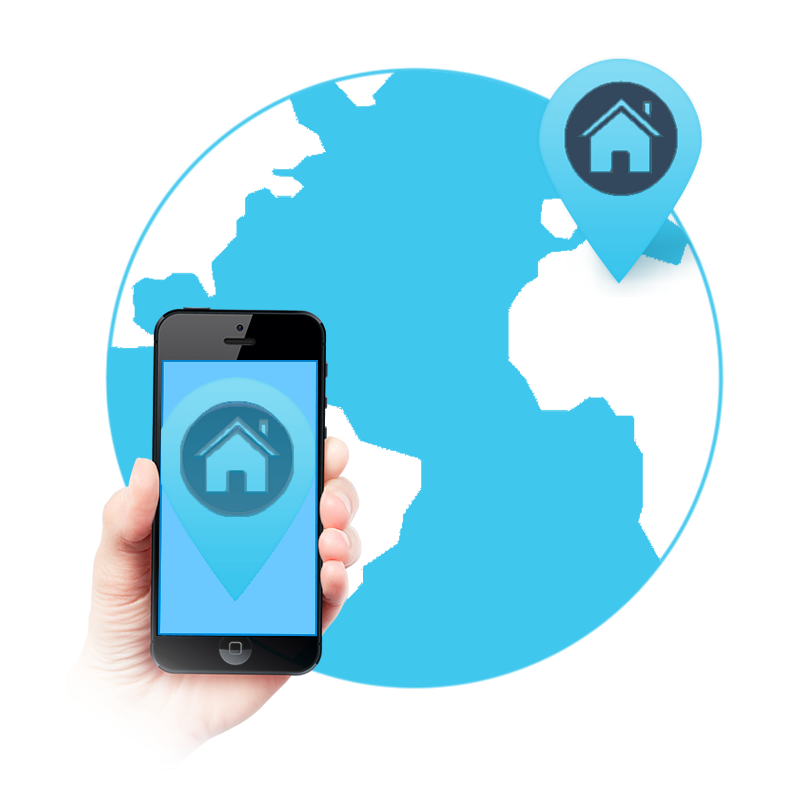
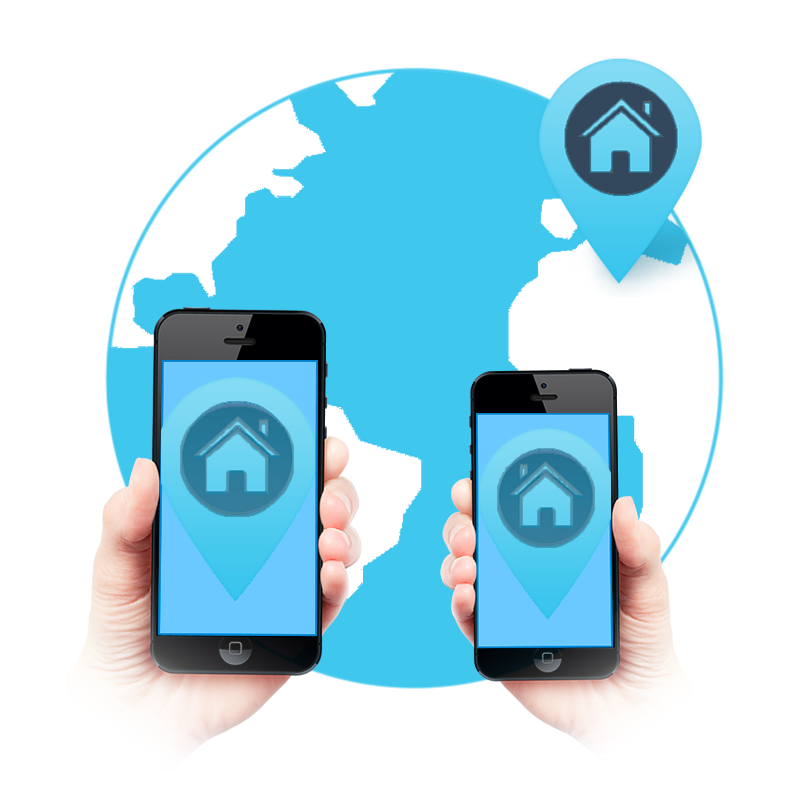
major changes to landing page images
introduced a product box, ariel on the product (since it apparently looked like a load of bread, says one investor)

Changed region(s): [[0.5312, 0.4375, 0.8438, 0.9375]]

diff --git a/docs/index.html b/docs/index.html
@@ -107,10 +107,10 @@
 							<div class="carousel-caption text-left">
 								
 								<!-- First Line --> 
-								<h1 class="carousel-maintitle">Smart Home Made Simple</h1>
+								<h1 class="carousel-maintitle">One Device Smart Home</h1>
 								
 								<!-- Second Line --> 
-								<h2 class="carousel-title"><u><a href="demo.html" target="_popup" text="dashboard demo" class="carousel-title-link" style="font-weight:600">All in One</a></u>, Plug & Play Solution</h2>	
+								<h2 class="carousel-title"><u><a href="demo.html" target="_popup" text="dashboard demo" class="carousel-title-link" style="font-weight:600">All in One</a></u> and Plug & Play</h2>	
 							
 								<!-- Buttons Holder --> 
 								<div class="button-block">
@@ -202,10 +202,10 @@
 							<div class="carousel-caption text-left">
 								
 								<!-- 1st Line --> 
-								<h1 class="carousel-maintitle">Stylish <u><a href="demo.html" target="_popup" text="dashboard demo" class="carousel-maintitle-link">All-In-One Menu</a></u> </h1>
+								<h1 class="carousel-maintitle">Remote & Multiscreen</h1>
 					
 								<!-- 2nd Line --> 
-								<h2 class="carousel-title">Accessible From Anywhere</h2>
+								<h2 class="carousel-title">For Cohabitors On The Go!</h2>
 								
 								
 								<!-- Buttons Holder --> 
@@ -239,10 +239,10 @@
 						
 						<!-- First Line  -->  
 							<div class="carousel-caption text-left">
-								<h1 class="carousel-maintitle" >Order Yours Today<a data-featherlight="iframe" data-featherlight-iframe-allowfullscreen="true" href="content/product-info.html" h-scrolling="yes" v-scrolling="yes"><img class="moreinfo" src="img/info.png"></a></h1>
+								<h1 class="carousel-maintitle" >Get Started. Buy Now <a data-featherlight="iframe" data-featherlight-iframe-allowfullscreen="true" href="content/product-info.html" h-scrolling="yes" v-scrolling="yes"><img class="moreinfo" src="img/info.png"></a></h1>
 						
 						<!-- Second Line --> 
-								<h2 class="carousel-title"><u><a href="distributors2/index.html" class="carousel-title-link">Local Retailers</a></u> or <b style="font-weight:600;">Place Order Now </b>  </h2>														
+								<h2 class="carousel-title">(£199.99 inc. VAT) <u><a href="distributors2/index.html" target="_self" class="carousel-title-link"> Not in UK?</a></u> </h2>														
 								
 								<!-- Buttons Holder --> 
 								<div class="button-block">
